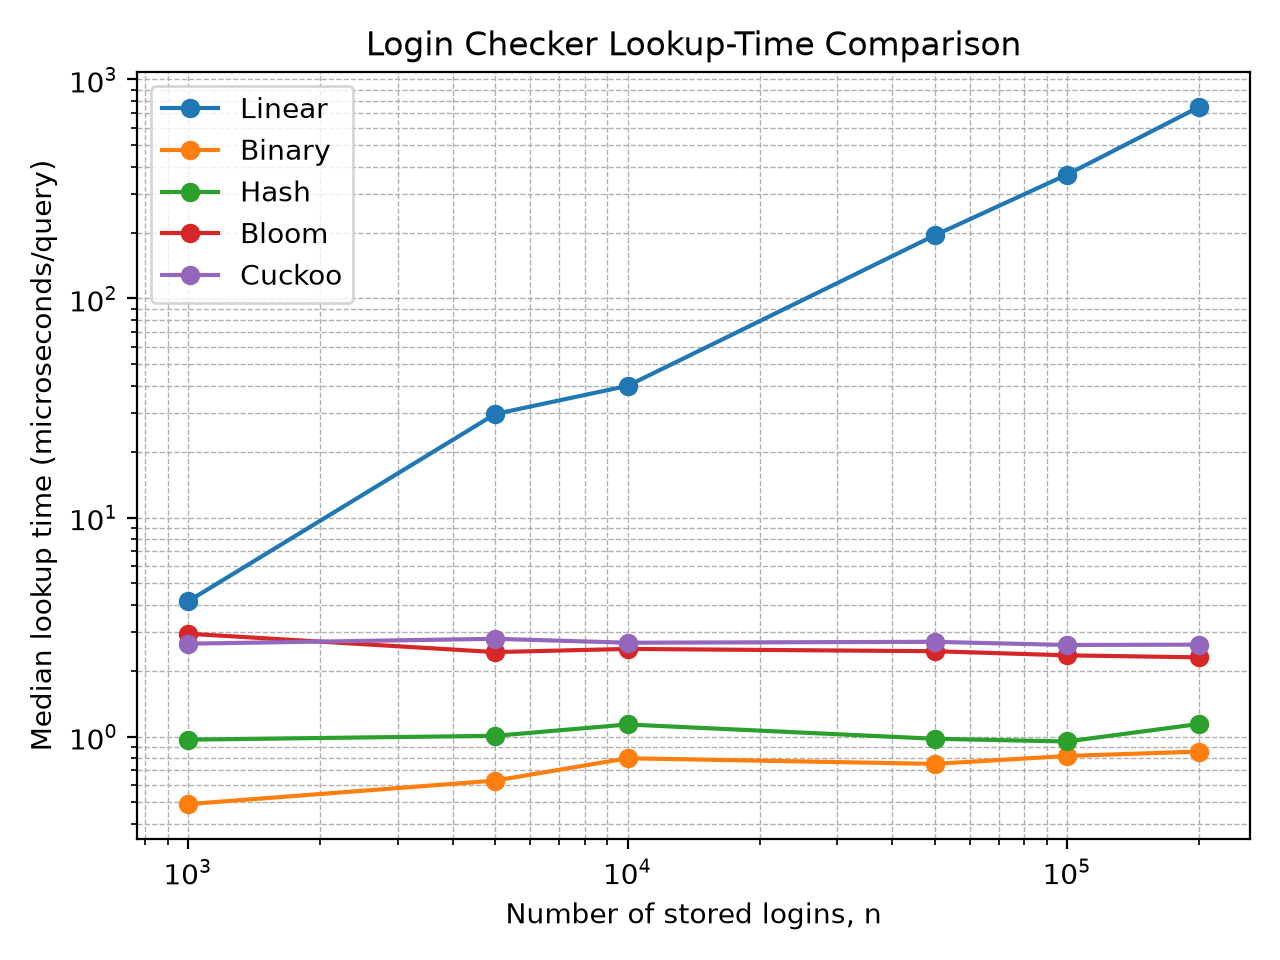
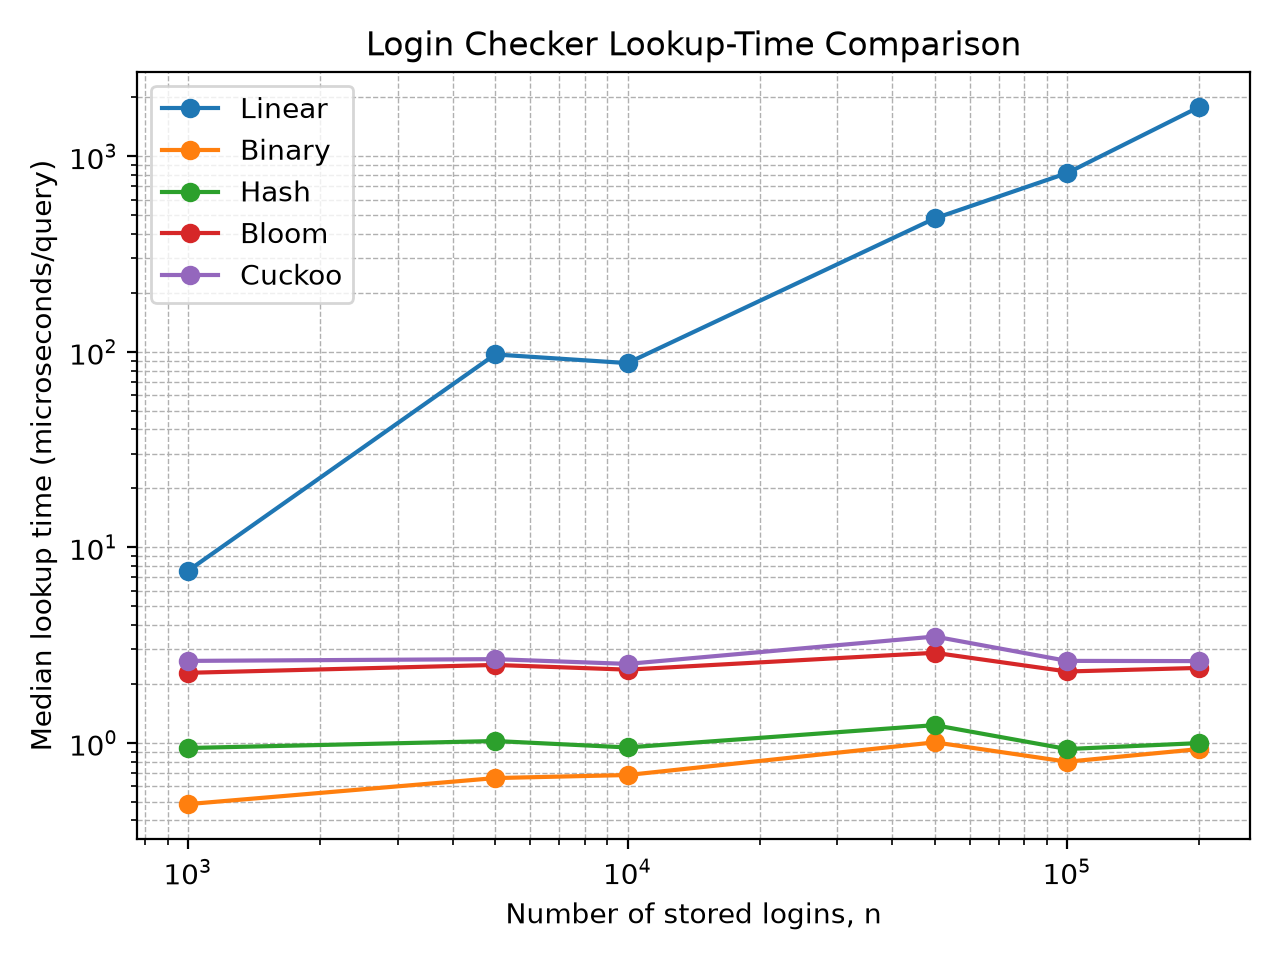
Checked binary and linear search

diff --git a/algorithms/hash_table.py b/algorithms/hash_table.py
@@ -1,90 +1,107 @@
-import math
-
-from utils.hash_functions import fnv1a64, next_power_of_two
-
-
-# ============================================================
-# 3. HASH TABLE
-# ============================================================
-
 class HashTable:
-    """
-    Exact hash table implemented using open addressing
-    and linear probing.
-
-    Python dictionary/set implementations are not used.
-    """
-
-    def __init__(self, expected_items, max_load=0.65):
-
-        required = max(
-            2,
-            math.ceil(expected_items / max_load)
-        )
-
-        self.capacity = next_power_of_two(required)
-
-        self.mask = self.capacity - 1
-
-        self.slots = [None] * self.capacity
-
+    def __init__(self, capacity):
+        self.capacity = capacity
+        self.slots = [None] * capacity
         self.size = 0
 
+    def _hash(self, key):
+        hash_value = 0
+
+        for char in key:
+            hash_value = (
+                hash_value * 31 + ord(char)
+            ) % self.capacity
+
+        return hash_value
 
     def insert(self, key):
-        """
-        Input:
-            key: username
-
-        Output:
-            True if newly inserted
-            False if username already exists
-
-        Description:
-            Uses linear probing when collisions occur.
-        """
-
-        index = fnv1a64(key) & self.mask
+        index = self._hash(key)
 
         for _ in range(self.capacity):
 
             if self.slots[index] is None:
-
                 self.slots[index] = key
                 self.size += 1
-
                 return True
 
             if self.slots[index] == key:
-
                 return False
 
-            index = (index + 1) & self.mask
+            index = (
+                index + 1
+            ) % self.capacity
 
-        raise RuntimeError("Hash table is full.")
-
+        raise RuntimeError(
+            "Hash table is full."
+        )
 
     def contains(self, key):
-        """
-        Input:
-            key: username
-
-        Output:
-            True if key exists, otherwise False
-        """
-
-        index = fnv1a64(key) & self.mask
+        index = self._hash(key)
 
         for _ in range(self.capacity):
 
-            value = self.slots[index]
-
-            if value is None:
+            if self.slots[index] is None:
                 return False
 
-            if value == key:
+            if self.slots[index] == key:
                 return True
 
-            index = (index + 1) & self.mask
+            index = (
+                index + 1
+            ) % self.capacity
 
         return False
+    
+# Test
+# table = HashTable(10)
+
+# table.insert("Arshida")
+# table.insert("Mansi")
+# table.insert("Manami")
+
+# x = "Manami"
+# result = table.contains(x)
+
+# if result:
+#     print("Element is present in the hash table")
+# else:
+#     print("Element is not present in the hash table")
+
+
+
+
+'''previous method of hash table implementation.'''
+# import math
+# from utils.hash_functions import fnv1a64, next_power_of_two
+# class HashTable:
+# # gotta think about max load
+#     def __init__(self, expected_items, max_load=0.7):
+#         required = max(
+#             2,
+#             math.ceil(expected_items / max_load)
+#         )
+#         self.capacity = next_power_of_two(required)
+#         self.mask = self.capacity - 1
+#         self.slots = [None] * self.capacity
+#         self.size = 0
+#     def insert(self, key):
+#         index = fnv1a64(key) & self.mask
+#         for _ in range(self.capacity):
+#             if self.slots[index] is None:
+#                 self.slots[index] = key
+#                 self.size += 1
+#                 return True
+#             if self.slots[index] == key:
+#                 return False
+#             index = (index + 1) & self.mask
+#         raise RuntimeError("Hash table is full.")
+#     def contains(self, key):
+#         index = fnv1a64(key) & self.mask
+#         for _ in range(self.capacity):
+#             value = self.slots[index]
+#             if value is None:
+#                 return False
+#             if value == key:
+#                 return True
+#             index = (index + 1) & self.mask
+#         return False

diff --git a/algorithms/bloom_filter.py b/algorithms/bloom_filter.py
@@ -1,25 +1,12 @@
+# Not have been checked. 
+
 import math
 
 from utils.hash_functions import fnv1a64, djb2_64
 
-
-# ============================================================
-# 4. BLOOM FILTER
-# ============================================================
-
 class BloomFilter:
-    """
-    Bloom filter implemented using a manually managed
-    bit vector.
 
-    No Bloom-filter library is used.
-    """
-
-    def __init__(
-        self,
-        expected_items,
-        false_positive_rate=0.01
-    ):
+    def __init__(self, expected_items, false_positive_rate=0.01):
 
         if expected_items <= 0:
             raise ValueError(
@@ -66,13 +53,6 @@ class BloomFilter:
 
 
     def _positions(self, key):
-        """
-        Generate k Bloom-filter bit positions.
-
-        Double hashing is used:
-
-        position_i = h1 + i*h2 mod m
-        """
 
         h1 = fnv1a64(
             key,
@@ -92,16 +72,6 @@ class BloomFilter:
 
 
     def add(self, key):
-        """
-        Input:
-            key: username
-
-        Output:
-            None
-
-        Description:
-            Sets k bits in the Bloom-filter bit array.
-        """
 
         for position in self._positions(key):
 
@@ -114,14 +84,6 @@ class BloomFilter:
 
 
     def contains(self, key):
-        """
-        Input:
-            key: username
-
-        Output:
-            False -> definitely absent
-            True  -> possibly present
-        """
 
         for position in self._positions(key):
 

diff --git a/algorithms/binary_search.py b/algorithms/binary_search.py
@@ -1,33 +1,27 @@
-# ============================================================
-# 2. BINARY SEARCH
-# ============================================================
-
 def binary_search(values, target):
-    """
-    Input:
-        values: sorted list of usernames
-        target: username to find
-
-    Output:
-        True if target exists, otherwise False
-
-    Complexity:
-        O(log n)
-    """
     low = 0
-    high = len(values) - 1
+    high = len(values)-1
 
     while low <= high:
-
         mid = (low + high) // 2
 
         if values[mid] == target:
             return True
 
         if values[mid] < target:
-            low = mid + 1
-
+            low = mid+1
         else:
-            high = mid - 1
+            high = mid-1
 
     return False
+
+# Test
+# mylist = ["Mansi", "Arshida", "Manami"]       
+# x = "Manami"
+# result = binary_search(mylist, x)
+
+# if result:
+#     print("Element is present in the list")
+# else:
+#     print("Element is not present in the list")
+    

diff --git a/algorithms/linear_search.py b/algorithms/linear_search.py
@@ -1,21 +1,15 @@
-# ============================================================
-# 1. LINEAR SEARCH
-# ============================================================
-
 def linear_search(values, target):
-    """
-    Input:
-        values: list of usernames
-        target: username to find
-
-    Output:
-        True if target exists, otherwise False
-
-    Complexity:
-        O(n)
-    """
-    for value in values:
-        if value == target:
+    for value in range(len(values)):
+        if values[value] == target:
             return True
-
     return False
+
+# Test
+# mylist= ["Manami", "Mansi", "Arshida"]
+# x = "Mansi"
+# result = linear_search(mylist, x)
+
+# if result:
+#     print("Element is present in the list")
+# else:
+#     print("Element is not present in the list")

diff --git a/algorithms/cuckoo_filter.py b/algorithms/cuckoo_filter.py
@@ -1,3 +1,5 @@
+# not have been chekced. 
+
 import math
 import random
 
